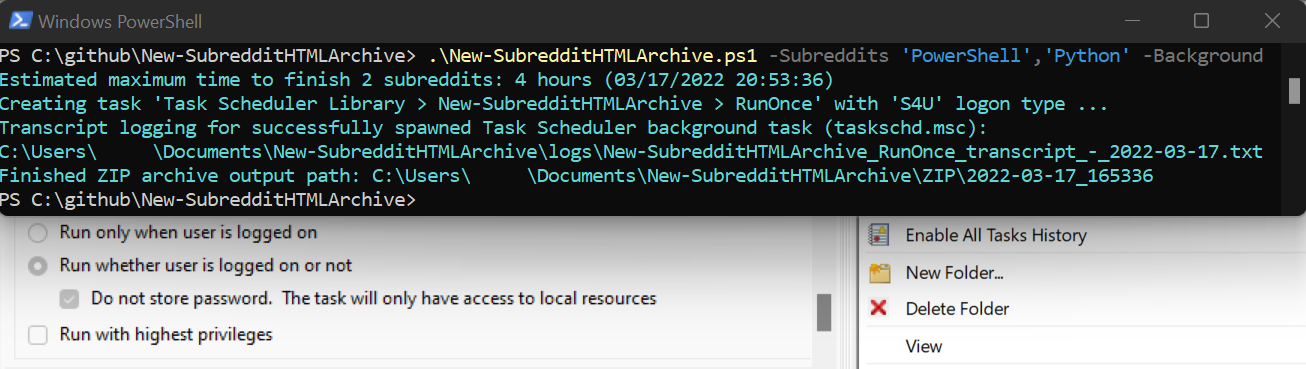
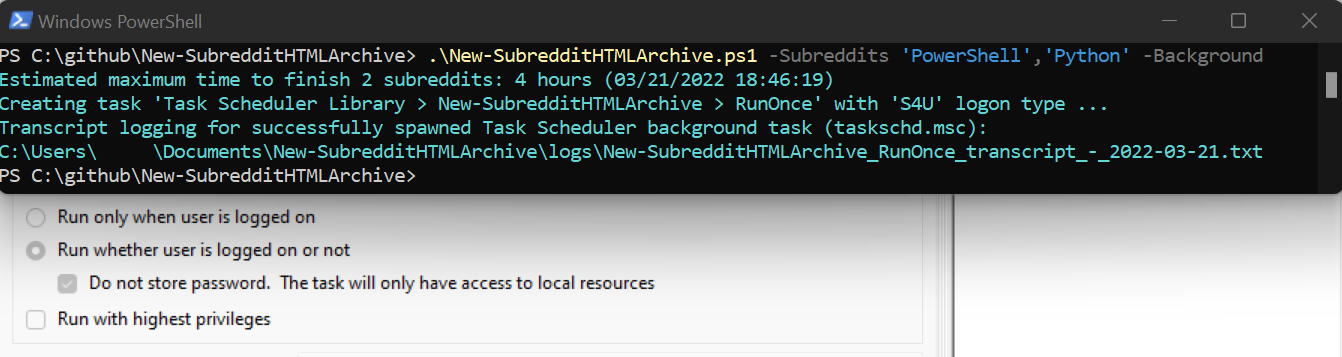
v2.1.1

diff --git a/README.md b/README.md
@@ -19,9 +19,11 @@ Then seconds later, that created task will run, and by default will pop up an in
   
 ![Interactive Screenshot](./screenshots/screenshotScript.png "Interactive Screenshot")
   
-If you run the script with the -Background switch parameter supplied, you will instead see the path to the transcript log, and the future finished ZIP file directory:  
+If run with the -Background switch parameter, you will instead see the path to the transcript log:  
   
 ![Background Task Screenshot](./screenshots/screenshotBackground.png "Background Task Screenshot")
+  
+The finished HTML archives and ZIP path are in the task description, and the end of the transcript.  
   
 ## Added features since initial release  
 - Missing dependency package installation with the new -InstallPackages parameter.
@@ -31,7 +33,7 @@ If you run the script with the -Background switch parameter supplied, you will i
     2. Compresses master index and all HTML archive folders into a portable ZIP file.
 - Assisted GitHub authentication step, progress bar, and subreddit input validation.
 - Better BDFR-HTML module installation with error/standard output logging.
-- BDFR clone operations are now retried up to 20 times, with cumulative sleep.
+- BDFR clone operations are now retried up to 10 times, with cumulative sleep.
 - Added logs folder and cleaned all folder management code.. all logs now retained.
 - Added CTRL+C handling: once restarts clone, twice exits script. Added loop hang detection.
 - Script spawns itself as a scheduled task, enabling background runs and rerun scheduling.
@@ -39,3 +41,4 @@ If you run the script with the -Background switch parameter supplied, you will i
 - PowerShell Gallery: https://www.powershellgallery.com/packages/New-SubredditHTMLArchive/
 - Updated hang detection to not trigger if output JSON/media folder is growing by 1GB/4hrs.
 - Checks BDFR logs for repeating errors from a submission ID, and excludes those IDs on retry.
+- Now passes partial subreddit JSON clones to BDFR-HTML instead of terminating the script.
